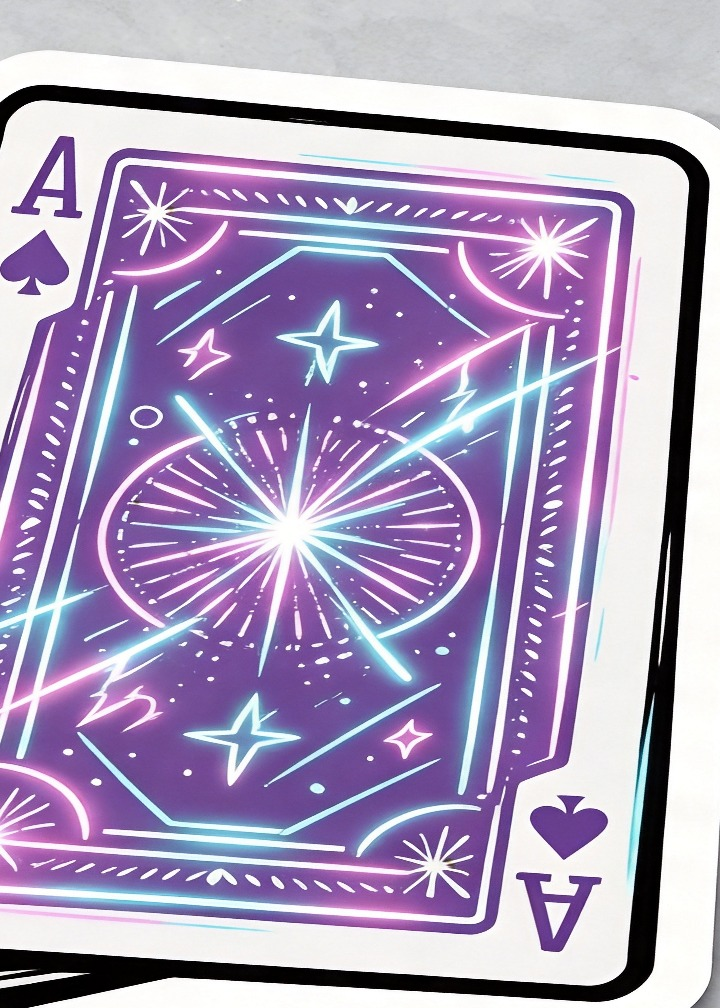
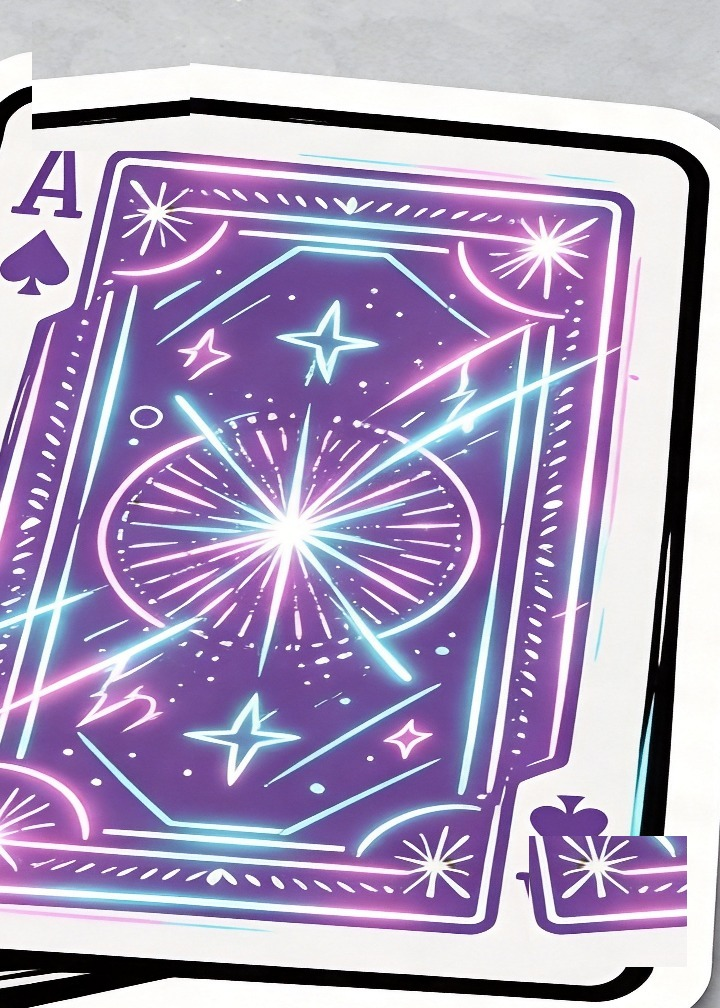
fix: 牌桌布局重构——座位百分比椭圆定位/牌背尺寸修复/荷官顶置/底池公共牌分层

Changed region(s): [[0.7333, 0.8304, 0.9778, 0.9841], [0.0306, 0.0308, 0.275, 0.1538]]

diff --git a/frontend/src/components/PokerTable/PokerTable.css b/frontend/src/components/PokerTable/PokerTable.css
@@ -1,7 +1,7 @@
 .poker-table-container {
   background: radial-gradient(ellipse at 50% 0%, rgba(88, 60, 160, 0.20) 0%, rgba(23, 15, 46, 0.35) 45%, rgba(8, 5, 20, 0.55) 100%);
   border-radius: 28px;
-  padding: 26px 18px 6px;
+  padding: 52px 18px 6px;
 }
 
 .poker-table {
@@ -10,7 +10,10 @@
   border: 6px solid rgba(167, 139, 250, 0.55);
   border-radius: 180px;
   padding: 60px 40px 80px;
-  min-height: 520px;
+  min-height: 620px;
+  max-width: 1280px;
+  margin-left: auto;
+  margin-right: auto;
   box-shadow:
     0 0 0 3px rgba(240, 198, 116, 0.35),
     0 0 44px rgba(167, 139, 250, 0.35),
@@ -33,8 +36,7 @@
 .table-stage {
   position: absolute;
   top: 16px;
-  left: 50%;
-  transform: translateX(-50%);
+  left: 24px;
   display: flex;
   gap: 8px;
   align-items: center;
@@ -50,7 +52,7 @@
 /* 底池 */
 .table-pot {
   position: absolute;
-  top: 50%;
+  top: 34%;
   left: 50%;
   transform: translate(-50%, -50%);
   text-align: center;
@@ -177,11 +179,15 @@
 
 /* 公共牌区 */
 .board-cards {
+  position: absolute;
+  top: 53%;
+  left: 50%;
+  transform: translate(-50%, -50%);
+  z-index: 2;
   display: flex;
   gap: 12px;
   justify-content: center;
   align-items: center;
-  padding-top: 20px;
   min-height: 120px;
 }
 
@@ -593,8 +599,11 @@
 
 /* ===== L3：荷官位 · 午夜酒馆 ===== */
 .dealer-seat {
-  position: relative;
-  z-index: 3;
+  position: absolute;
+  top: -30px;
+  left: 50%;
+  transform: translateX(-50%);
+  z-index: 4;
   display: flex;
   flex-direction: column;
   align-items: center;
@@ -769,6 +778,8 @@
 .table-graffiti .g4 { bottom: 30%; right: 20%; font-size: 18px; transform: rotate(17deg); }
 .table-graffiti .g5 { top: 46%; left: 8%; font-size: 16px; color: #f0abfc; transform: rotate(-20deg); }
 .card-small.card-back {
+  width: 36px;
+  height: 50px;
   padding: 0 !important;
   overflow: hidden;
   background: #2b1a52;

diff --git a/frontend/src/components/PokerTable/PokerTable.jsx b/frontend/src/components/PokerTable/PokerTable.jsx
@@ -140,12 +140,14 @@ const PokerTable = ({ gameState, playerId }) => {
   const playerCount = players?.length || 2;
   const getSeatStyle = (index) => {
     const angleStep = 360 / Math.max(playerCount, 2);
-    const angle = index * angleStep - 90; // 从顶部开始
+    const rad = (index * angleStep - 90) * Math.PI / 180; // 从顶部开始
+    const rx = 40; // 椭圆横向半径（占桌面宽度%）
+    const ry = 30; // 椭圆纵向半径（占桌面高度%）
     return {
       position: 'absolute',
-      left: '50%',
-      top: '50%',
-      transform: `rotate(${angle}deg) translateY(-200px) rotate(-${angle}deg) translate(-50%, -50%)`
+      left: `${50 + rx * Math.cos(rad)}%`,
+      top: `${50 + ry * Math.sin(rad)}%`,
+      transform: 'translate(-50%, -50%)'
     };
   };
 
